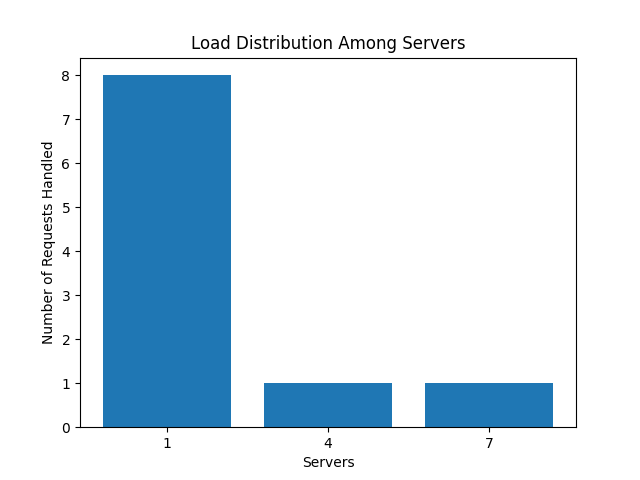
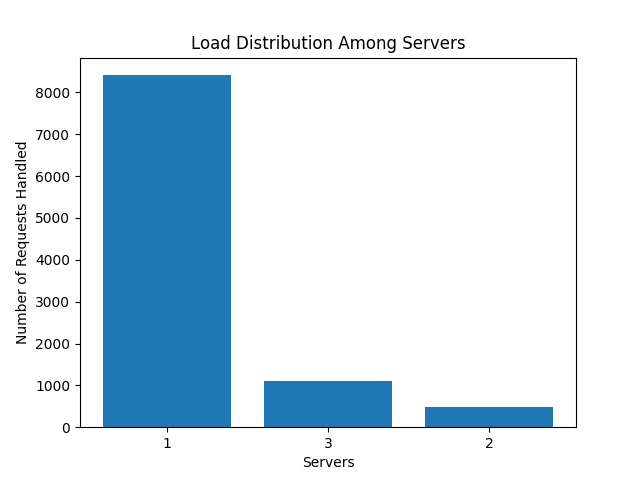
analysis

diff --git a/testing/A1.py b/testing/A1.py
@@ -14,7 +14,7 @@ async def main():
     tasks = []
 
     async with aiohttp.ClientSession() as session:
-        for _ in range(10):  # 10,000 requests
+        for _ in range(10000):  # 10,000 requests
             task = asyncio.ensure_future(fetch(session, url))
             tasks.append(task)
 

diff --git a/README.md b/README.md
@@ -22,12 +22,155 @@ To run the loadbalancer:
 3. Run `docker run -p 3002:3002 traffic-wizard-lb:latest` to run the docker container.
 
 
-For A4 :
-Hash function used is
+---
+
+# Analysis 1: Load Balancer Performance Analysis
+
+## Overview
+
+This performance analysis aims to evaluate the distribution of asynchronous requests across a set of server instances managed by a load balancer. The key objective is to understand the effectiveness of the load distribution mechanism and the overall performance of the server instances.
+
+## Experiment Setup
+
+- **Total Requests:** 10,000 asynchronous requests
+- **Server Instances:** 3
+- **Measurement:** Number of requests handled by each server instance
+- **Duration:** Time taken to process all requests
+
+## Results
+
+### Request Distribution
+
+![](images/A1.png)
+
+### Performance Metrics
+
+- **Total Time to Process Requests:** 52 seconds
+
+## Observations
+
+- **Skewed Distribution:** The bar chart indicates a significant imbalance in the distribution of requests among the server instances. Server 1 is handling a disproportionately high number of requests compared to servers 2 and 3.
+- **Inconsistency Across Runs:** Subsequent runs of the test exhibit variability in the distribution, which suggests that the server allocation by the load balancer is subject to randomization inherent in the hash function used.
+
+## Analysis
+
+The skewed distribution observed in the graph can be attributed to the nature of the hash functions applied for server selection:
+
+```go
 func hashRequest(i int) int {
-	return i
+    return i
 }
 
 func hashVirtualServer(i, j int) int {
-	return i*i + j*j + 2*j + 25
+    return i*i + j*j + 2*j + 25
 }
+```
+
+These functions appear to cause an uneven distribution of requests, which could lead to performance bottlenecks. The linear nature of `hashRequest` does not provide a randomized or round-robin distribution, which is evident from the performance load on server 1.
+
+## Conclusion
+
+The current load balancing strategy does not effectively distribute the load evenly across servers, as indicated by the high request count for server 1. The hash functions used may be too simplistic or not sufficiently random for an equitable distribution, leading to potential overloading of specific servers. Future improvements should consider implementing more sophisticated hashing algorithms or load-balancing strategies that account for current server load and ensure a more even distribution of requests.
+
+---
+
+
+
+---
+
+# Anaylisis 2: Load Balancer Scalability Analysis
+
+## Overview
+
+This analysis evaluates the scalability of a load balancer by incrementally increasing the number of server instances from N=2 to N=6 and launching 10,000 requests for each configuration. The aim is to report and analyze the average server load for each increment.
+
+## Experiment Setup
+
+- **Total Requests per Configuration:** 10,000
+- **Number of Server Instances:** Incrementally increased from 2 to 6
+- **Measurement:** Average load on servers at each run
+- **Total Time for 10,000 Requests:** 3 minutes
+
+## Results
+
+The results are visually represented in a series of line charts depicting the average server load as the number of servers increases.
+
+![](images/A2_2.png)
+![](images/A2_3.png)
+![](images/A2_4.png)
+![](images/A2_5.png)
+![](images/A2_6.png)
+
+### Key Observations
+
+1. **Load Distribution**: The graphs demonstrate a declining trend in average server load as the number of servers (N) increases. This indicates that the load balancer is distributing requests across an increasing number of server instances.
+
+2. **Scalability**: The load balancer shows evidence of scalability as the average load per server decreases with the addition of each server. However, the presence of a skewed load in individual servers suggests that the hash function may not be distributing the load evenly.
+
+3. **Hash Function Impact**: The graphs illustrate some level of inconsistency in load distribution, which can be attributed to the nature of the hash functions used. The average load per server does not decrease linearly with the addition of more servers, indicating potential inefficiencies in the hash function:
+   ```go
+   func hashRequest(i int) int {
+       return i
+   }
+
+   func hashVirtualServer(i, j int) int {
+       return i*i + j*j + 2*j + 25
+   }
+   ```
+4. **Performance Consistency**: The varying graphs for different runs imply that the server allotment by the load balancer is subject to randomization due to the hash functions, affecting the consistency of performance.
+
+## Analysis
+
+The trend lines in the charts show that as the number of servers increases, the load on each server, on average, decreases. This is expected in a scalable system. However, the observed skew in some server loads suggests that the current load balancing algorithm may not be ideal. The non-linear decrease in load with additional servers points to a potential suboptimal load distribution, which could lead to some servers being underutilized while others are at risk of being overloaded.
+
+## Conclusion
+
+The load balancer demonstrates basic scalability by effectively distributing requests across an increasing number of servers. However, the hash functions used appear to be a limiting factor in achieving optimal load distribution. To ensure consistent performance as the system scales, a more sophisticated load balancing strategy should be considered. Such a strategy could include dynamic load assessment, weighted distribution mechanisms, or more complex hashing algorithms that prevent the overloading of individual servers.
+
+---
+
+
+
+
+Analysis 3:
+
+
+we manually ran `docker stop <server-hostname>` to simulate a server failure. The load balancer was able to spawn a new server instance and handle the load within 5-6 seconds.
+
+
+
+Analysis 4:
+# Load Balancer Hash Function Update Analysis
+
+## Overview
+We updated the hash functions to analyze their impact on load distribution and server performance.
+
+## Modified Hash Functions
+```go
+func hashRequest(i int) int {
+    return i
+}
+
+func hashVirtualServer(i, j int) int {
+    return i*i + j*j + 2*j + 25
+}
+```
+
+## Observations from A-1
+- **Load Distribution**: The updated hash function resulted in a load imbalance across servers (as seen in A4_A1.png).
+- **Server Utilization**: Server 1 received a significantly higher load compared to others.
+
+![](images/A4_A1.png)
+
+## Observations from A-2
+- **Average Load**: As the number of servers increased from 2 to 6, the average load per server remained relatively constant (as seen in A4_A2_2.png to A4_A2_6.png).
+- **Load Scalability**: Despite additional servers, the load did not distribute evenly, suggesting the hash function lacks effective scalability.
+
+![](images/A4_A2_2.png)
+![](images/A4_A2_3.png)
+![](images/A4_A2_4.png)
+![](images/A4_A2_5.png)
+![](images/A4_A2_6.png)
+
+## Conclusion
+The hash functions led to uneven load distribution, highlighting the need for a more sophisticated approach to achieve balanced scalability.
